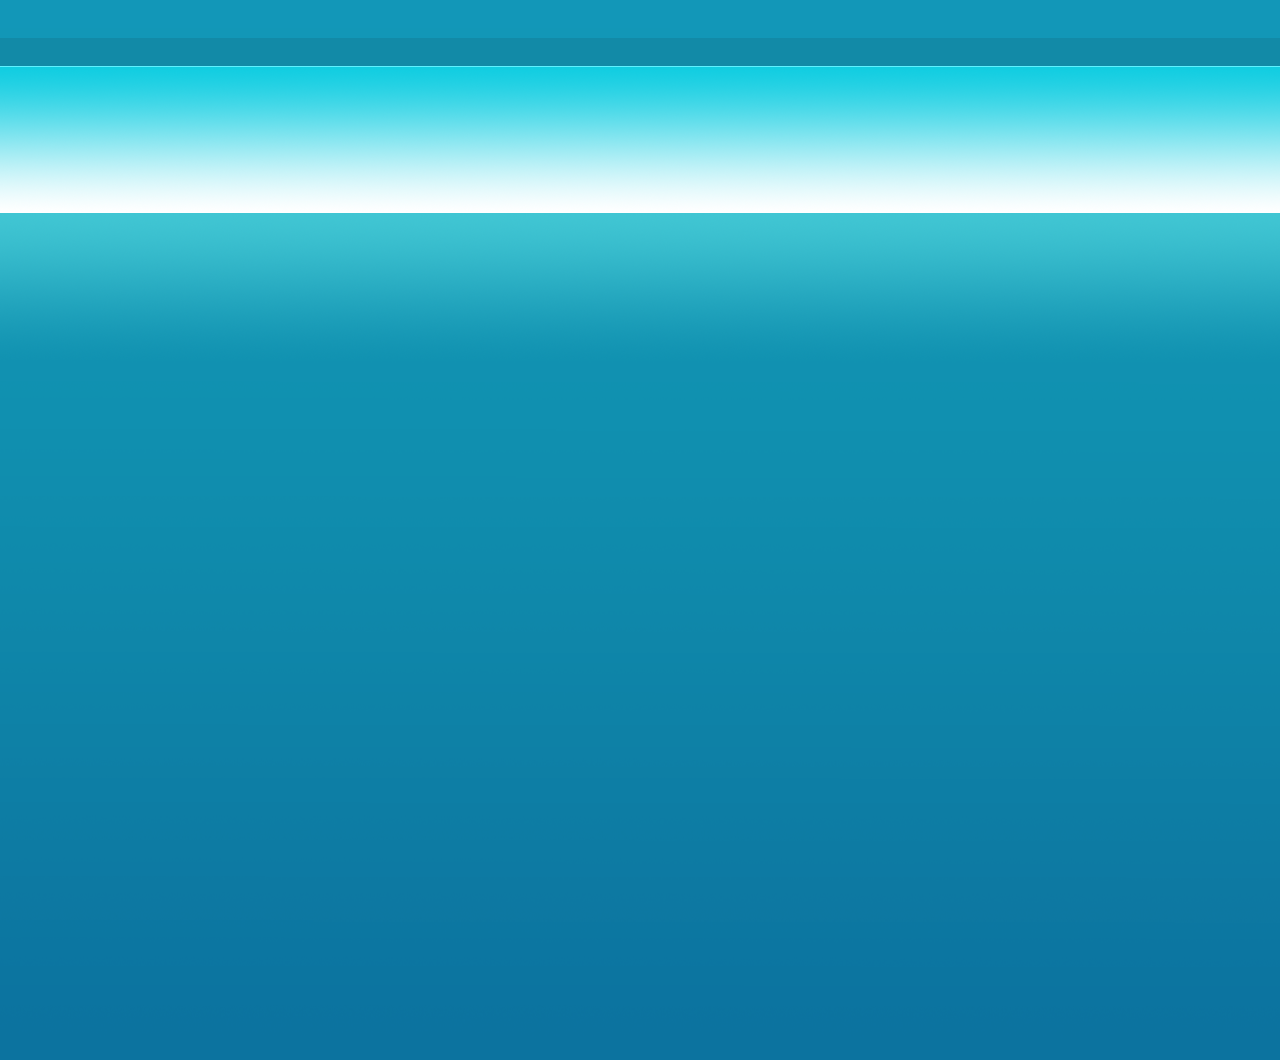
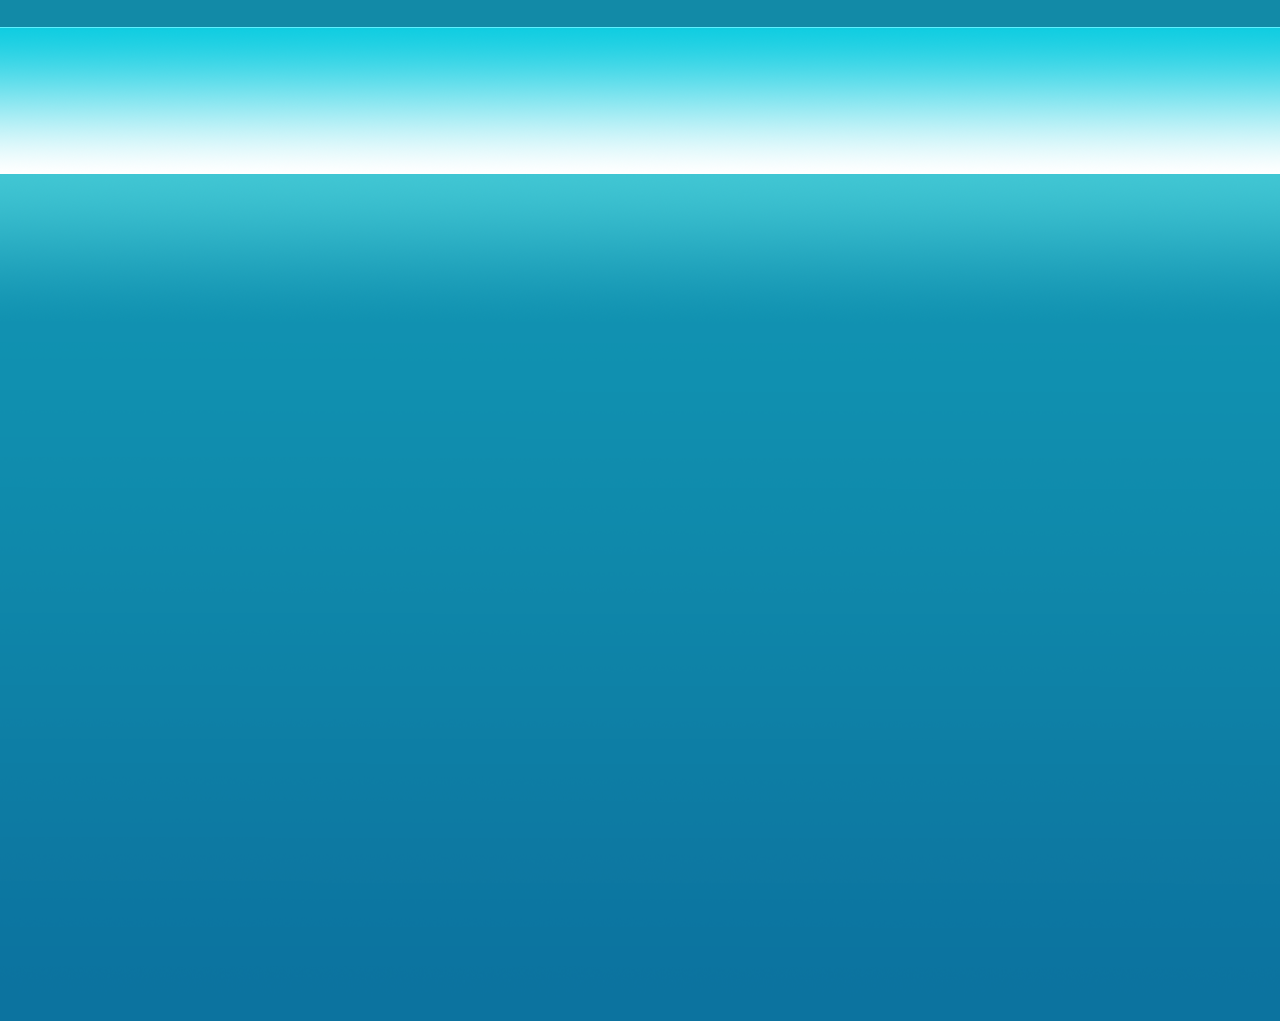
correct html_4

Changed region(s): [[0.0, 0.0, 1.0, 0.2125]]

diff --git a/html_4/index.html b/html_4/index.html
@@ -44,6 +44,8 @@
           <li><a href="">Путешествие5</a></li>
          </ul>
          </li>
+         <div class="block">
+         </div>
          <li><a href="">Услуги</a>
           <ul class="sub_menu">
           <li><a href="">Услуга1</a></li>
@@ -53,6 +55,8 @@
           <li><a href="">Услуга5</a></li>
          </ul>
          </li>
+         <div class="block1">
+         </div>
          <li><a href="">Партнерам</a>
           <ul class="sub_menu">
           <li><a href="">Предложение1</a></li>
@@ -62,6 +66,8 @@
           <li><a href="">Предложение5</a></li>
          </ul>
          </li>
+         <div class="block2">
+         </div>
           <li><a href="">Отзывы клиентов</a></li>
           <li><a href="">О нас</a></li>
           <li><a href="">Контакты</a></li>
@@ -81,7 +87,7 @@
            <li>Lorem ipsum dolor sit amet</li>
         </ul>
       </div>
-      <div class="content"><p>2</p><p>2</p><p>2</p><p>2</p><p>2</p><p>2</p><p>2</p><p>2</p><p>2</p><p>2</p><p>2</p><p>2</p><p>2</p><p>2</p><p>2</p><p>2</p><p>2</p><p>2</p><p>2</p></div>
+      <div class="content"><p>2</p><p>2</p><p>2</p><p>2</p><p>2</p><p>2</p><p>2</p><p>2</p><p>2</p><p>2</p><p>2</p><p>2</p><p>2</p><p>2</p><p>2</p><p>2</p><p>2</p><p>2</p><p class="p">2</p></div>
       <div class="sidebarright">
         <ul class="news">
            <li><b><h3>Новости</h3></b></li>

diff --git a/html_4/css/style.css b/html_4/css/style.css
@@ -121,7 +121,28 @@ ul.main_menu > li > a{
 	display: block;
 	color: white;
     text-decoration: none;
-    padding: 3px 34px 7px 40px;
+    padding: 4px 35px 0px 40px;
+}
+.block{
+	position: absolute;
+	top: 439px;
+	right: 738px;
+	border: 3px solid transparent;
+	border-top: 7px solid white;
+}
+.block1{
+	position: absolute;
+	top: 439px;
+	right: 620px;
+	border: 3px solid transparent;
+	border-top: 7px solid white;
+}
+.block2{
+	position: absolute;
+	top: 439px;
+	right: 473px;
+	border: 3px solid transparent;
+	border-top: 7px solid white;
 }
 ul.sub_menu{
 	display: none;
@@ -147,7 +168,6 @@ ul.main_menu > li:hover > ul.sub_menu{
     display: block;
 }
 .container{
-	margin-top: 5px;
 	background: #edeef0;
 	width: 1000px;
 	overflow: hidden;
@@ -165,6 +185,9 @@ ul.main_menu > li:hover > ul.sub_menu{
 	border-right: 1px solid black;
 	border-left: 1px solid black;
 	color: white;
+}
+.p{
+	padding: 0px 0px 5px 0px; 
 }
 .sidebarright{
 	text-align: center;
